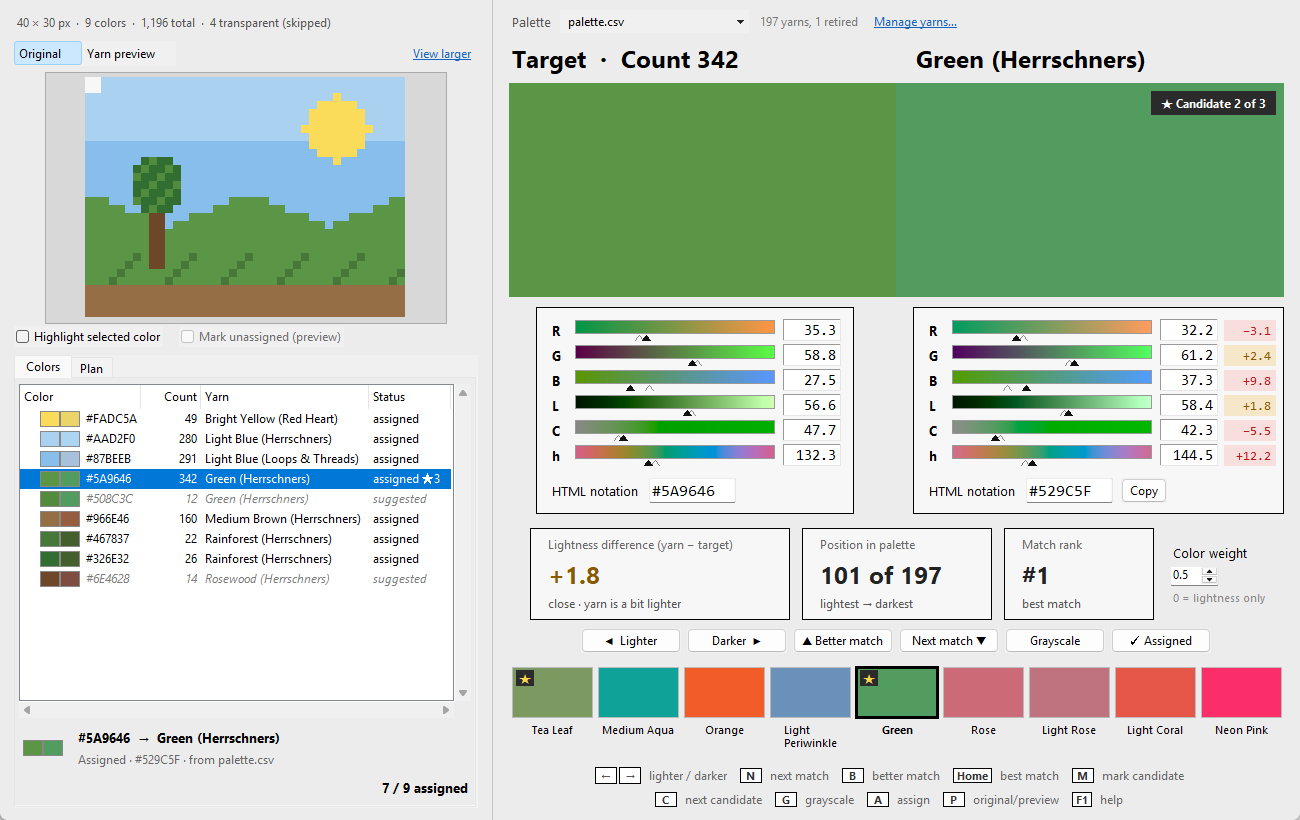
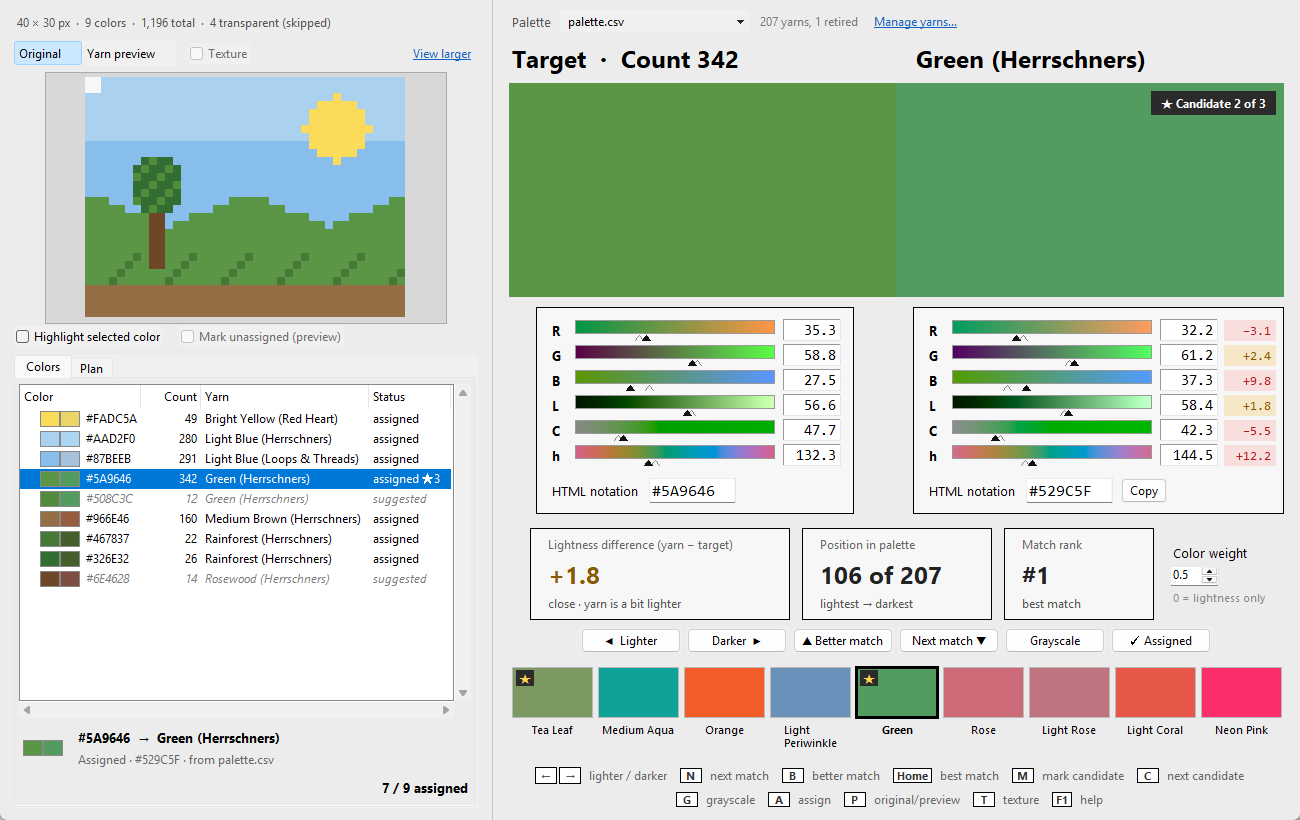
Yarn texture: T shows the preview with each yarn's photo instead of its flat color
Like my GIMP test fit: every yarn's photo is a layer behind the whole picture, seen
through that color's knots. Works in the sidebar and View larger (Texture box, or T;
from the original T goes straight to the textured preview). Yarns without a photo,
grayscale, and colors faded by Highlight or striped by Mark unassigned stay flat.
Scaled photos are cached per size; each run of same-colored knots is one copy.
README main and Plan screenshots retaken (Texture box, T hint).

Changed region(s): [[0.4308, 0.9146, 0.9538, 1.0], [0.6769, 0.7012, 0.7077, 0.7317], [0.1538, 0.061, 0.1846, 0.0915]]

diff --git a/src/latchwork/project_panel.py b/src/latchwork/project_panel.py
@@ -1,9 +1,13 @@
-"""Project sidebar: the image (original or yarn preview), its colors and assignments, and the plan."""
+"""Project sidebar: the image (original or yarn preview, flat or textured with yarn photos), its
+colors and assignments, and the plan."""
 import math
+import os
 import tkinter as tk
 import tkinter.font as tkfont
 from tkinter import ttk
 
+from . import palette as pal
+from . import photos
 from . import plan as pl
 from .palette import label as yarn_label
 from .colormath import gray_for_lightness, lightness, parse_hex, to_hex
@@ -71,6 +75,8 @@ class ProjectPanel(tk.Frame):
         self.large = None        # the "View larger" window, while open
         self._large_geometry = None
         self._quiet = False
+        self._photos = {}        # yarn photo path -> (mtime, PhotoImage)
+        self._textures = {}      # (path, mtime, w, h) -> (image, x offset, y offset)
         italic = tkfont.nametofont("TkDefaultFont").copy()
         italic.configure(slant="italic")
         self._italic = italic
@@ -106,6 +112,15 @@ class ProjectPanel(tk.Frame):
         for value, text in (("original", "Original"), ("preview", "Yarn preview")):
             ttk.Radiobutton(views, text=text, value=value, variable=self.view, style="Toolbutton",
                             command=self.on_view).pack(side="left", ipadx=8)
+        self.texture = tk.BooleanVar(value=False)
+        self.texture_cb = ttk.Checkbutton(views, text="Texture", variable=self.texture,
+                                          command=self.render_image)
+        self.texture_cb.pack(side="left", padx=(12, 0))
+        Tooltip(self.texture_cb, lambda e: (None, [([], (
+            "Yarn preview with each yarn's photo instead of its flat color (T),\n"
+            "like a photo layer behind the picture. Yarns without a photo stay\n"
+            "flat; so does everything in grayscale, and the colors that\n"
+            "Highlight fades or Mark unassigned stripes."))]))
         larger = tk.Label(views, text="View larger", font=("Segoe UI", 9, "underline"), bg=BG,
                           fg="#1565C0", cursor="hand2")
         larger.pack(side="right", padx=(0, 4))
@@ -522,8 +537,22 @@ class ProjectPanel(tk.Frame):
 
     # ---------- image ----------
     def on_view(self):
-        self.mark_cb.state(["!disabled"] if self.view.get() == "preview" else ["disabled"])
+        state = ["!disabled"] if self.view.get() == "preview" else ["disabled"]
+        self.mark_cb.state(state)
+        self.texture_cb.state(state)
         self.render_image()
+
+    def toggle_texture(self):
+        """T: yarn texture on or off. From the original it goes to the textured preview."""
+        if not self.project:
+            return
+        if self.view.get() != "preview":
+            self.view.set("preview")
+            self.texture.set(True)
+            self.on_view()
+        else:
+            self.texture.set(not self.texture.get())
+            self.render_image()
 
     def toggle_view(self):
         if self.project:
@@ -594,6 +623,8 @@ class ProjectPanel(tk.Frame):
         zoom, sub = scale
         dw = w * zoom if sub == 1 else -(-w // sub)
         dh = h * zoom if sub == 1 else -(-h // sub)
+        textured = self._textures_for(dw, dh, live, sel, unassigned) \
+            if preview and self.texture.get() and not gray else {}
         xs = [min(w - 1, dx * sub // zoom) for dx in range(dw)]
         rows = []
         for dy in range(dh):
@@ -613,7 +644,73 @@ class ProjectPanel(tk.Frame):
             rows.append("{" + " ".join(row) + "}")
         photo = tk.PhotoImage(width=dw, height=dh)
         photo.put(" ".join(rows), to=(0, 0))
+        if textured:
+            self._paint_textures(photo, textured, xs, w, h, scale, dw, dh)
         return photo
+
+    # ---------- yarn texture ----------
+    def _textures_for(self, dw, dh, live, sel, unassigned):
+        """{image color: (texture, x offset, y offset)} for the colors whose yarn has a photo."""
+        bank = {y.key: y for y in self.app.bank}
+        out = {}
+        for e in self.project.colors:
+            if (sel and e.hex != sel) or e.hex in unassigned:
+                continue
+            if live and live[0] == e.hex:
+                y = self.app.yarns[self.app.index]
+            elif e.yarn:
+                y = bank.get(pal.yarn_key(e.yarn["name"], e.yarn.get("brand", "")))
+            else:
+                y = None
+            path = pal.photo_file(self.app.palette_path, y) if y else None
+            tex = self._texture(path, dw, dh) if path else None
+            if tex:
+                out[e.hex] = tex
+        return out
+
+    def _texture(self, path, w, h):
+        try:
+            mtime = os.path.getmtime(path)
+        except OSError:
+            return None
+        key = (path, mtime, w, h)
+        tex = self._textures.get(key)
+        if tex is None:
+            cached = self._photos.get(path)
+            if not cached or cached[0] != mtime:
+                try:
+                    cached = self._photos[path] = (mtime, photos.load(path, master=self))
+                except ValueError:
+                    return None
+            tex = self._textures[key] = photos.cover_texture(cached[1], w, h)
+            while len(self._textures) > 60:          # keep the most recent sizes only
+                del self._textures[next(iter(self._textures))]
+        return tex
+
+    def _paint_textures(self, photo, textured, xs, w, h, scale, dw, dh):
+        """Copy each textured color's photo into its knots: one rectangle per run of the same
+        color along a row of art pixels."""
+        zoom, sub = scale
+        call, name = photo.tk.call, photo.name
+        y0 = 0
+        while y0 < dh:
+            iy = min(h - 1, y0 * sub // zoom)
+            y1 = y0 + 1
+            while y1 < dh and min(h - 1, y1 * sub // zoom) == iy:
+                y1 += 1
+            base, x0 = iy * w, 0
+            while x0 < dw:
+                orig = self.orig_hex[base + xs[x0]]
+                x1 = x0 + 1
+                while x1 < dw and self.orig_hex[base + xs[x1]] == orig:
+                    x1 += 1
+                tex = textured.get(orig)
+                if tex:
+                    img, ox, oy = tex
+                    call(name, "copy", img.name, "-from", x0 + ox, y0 + oy, x1 + ox, y1 + oy,
+                         "-to", x0, y0)
+                x0 = x1
+            y0 = y1
 
 
 class LargeView(tk.Toplevel):

diff --git a/src/latchwork/help.py b/src/latchwork/help.py
@@ -98,6 +98,7 @@ Pixel art is more vivid than any yarn; high weights chase colorfulness and light
 - A: assign the yarn on screen to the selected color; press again to undo.
 - G: grayscale (judge lightness alone).
 - P: sidebar image: original / yarn preview (assigned yarns, and suggested yarns for unassigned colors; Mark unassigned stripes those). The selected color shows the yarn currently on screen, live as you step, so you can judge it in the whole picture; nothing changes until you Assign. Highlight selected color (off by default) fades everything else, to show where that color is: toward white, or toward dark gray when the selected color is light (so white or pale colors still stand out). View larger (above the image) opens it in its own window, as big as fits, for small, long or wide art; it follows the sidebar, you can click colors in it, and P works there too.
+- T: yarn texture (the Texture box above the image): the yarn preview shows each yarn's photo instead of its flat color, like a photo layer behind the picture, so you can judge the real yarns together before deciding. From the original, T goes straight to the textured preview. Yarns without a photo stay flat, and so does everything in grayscale and the colors that Highlight fades or Mark unassigned stripes. Works in View larger too.
 - Enter or Esc: leave the hex field.
 - Typing a hex into the yarn's HTML notation box jumps to the yarn with that color; if no yarn matches, the box resets when you leave it.
 - Ctrl+N new project, Ctrl+O open project (File > Open recent lists the last 8), Ctrl+E export pattern, Ctrl+P manage yarns.

diff --git a/src/latchwork/app.py b/src/latchwork/app.py
@@ -365,7 +365,7 @@ class App:
         for keys, text in (("←→", "lighter / darker"), ("N", "next match"), ("B", "better match"),
                            ("Home", "best match"), ("M", "mark candidate"),
                            ("C", "next candidate"), ("G", "grayscale"), ("A", "assign"),
-                           ("P", "original/preview"), ("F1", "help")):
+                           ("P", "original/preview"), ("T", "texture"), ("F1", "help")):
             item = tk.Frame(hints, bg=BG)
             self.hint_items.append(item)
             for k in ([keys] if len(keys) > 2 or keys == "F1" else list(keys)):
@@ -407,6 +407,9 @@ class App:
             self.root.bind_all(k, lambda e: self._key(e, self.assign))
         for k in ("p", "P"):
             self.root.bind_all(k, lambda e: self._key(e, self.sidebar.toggle_view, large=True))
+        for k in ("t", "T"):
+            self.root.bind_all(k, lambda e: self._key(e, self.sidebar.toggle_texture,
+                                                      large=True))
         for k in ("m", "M"):
             self.root.bind_all(k, lambda e: self._key(e, self.mark_candidate))
         self.root.bind_all("c", lambda e: self._key(e, lambda: self.cycle_candidate(1)))

diff --git a/src/latchwork/photos.py b/src/latchwork/photos.py
@@ -51,6 +51,20 @@ def thumbnail(img, max_side):
     return img.subsample(f) if f > 1 else img
 
 
+def cover_texture(img, w, h):
+    """(image, x offset, y offset): the photo scaled to cover a w x h picture (whole-number
+    zoom, or the largest whole-number shrink that still covers), centered. Like a photo
+    layer behind the whole picture: every color's knots show their own yarn's photo."""
+    pw, ph = img.width(), img.height()
+    if pw >= w and ph >= h:
+        f = min(pw // w, ph // h)
+        if f > 1:
+            img = img.subsample(f)
+    else:
+        img = img.zoom(max(-(-w // pw), -(-h // ph)))
+    return img, (img.width() - w) // 2, (img.height() - h) // 2
+
+
 def copy_in(src, palette_path, yarn, img=None):
     """Copy a photo into the palette's swatch folder as 'Brand/Name.png' (shrunk when it's
     larger than MAX_SIDE). Returns the relative name to store in yarn.photo."""

diff --git a/docs/DESIGN.md b/docs/DESIGN.md
@@ -247,6 +247,14 @@ A `.latchwork` file is readable JSON:
   their yarn, unassigned ones their suggested yarn; "Mark unassigned" stripes those in the sidebar.
   In the sidebar, the selected color shows the yarn currently in the comparison view, updating
   live as you step (preview only; nothing is stored until Assign).
+- **Texture** (T, or the box above the image; preview only) replaces flat colors with yarn
+  photos, the way I used to test-fit in GIMP: each yarn's photo is a layer behind the whole
+  picture, seen through that color's knots. The photo is scaled to cover the image (whole-number
+  zoom, or the largest whole-number shrink that still covers) and centered, then copied in one
+  rectangle per run of same-colored knots, so it costs little more than the flat preview.
+  Scaled photos are cached per size. The yarn is the assigned or suggested one (the live yarn
+  for the selected color); no photo, grayscale, a faded (Highlight) or striped (Mark unassigned)
+  color stays flat. From the original, T switches to the textured preview.
 - Highlight selected color fades the other colors 78% toward white, or toward dark gray (#3A3A3A)
   when the selected color as shown has L\* of 65 or more, since pale colors vanish against a
   white fade.
@@ -255,7 +263,7 @@ A `.latchwork` file is readable JSON:
   in the 400 x 250 box, so **View larger** opens the same image in its own resizable,
   non-modal window at the largest whole-number zoom that fits. It mirrors the sidebar (view,
   highlight, stripes, selected color, live yarn), redraws once after a burst of changes, and a
-  click there selects a color too; P switches original/preview there too (other keys stay
+  click there selects a color too; P and T work there too (other keys stay
   with the main window); Esc closes it, and it reopens at its last size this session.
 
 ## Pattern export (`pattern.py`, `pattern_template.html`)

diff --git a/README.md b/README.md
@@ -60,6 +60,8 @@ first and tells you what's missing.
    the palette by lightness, **G** to compare in grayscale. Deciding between a few? **M** marks
    the yarn on screen as a candidate (or right-click its tile) and **C** (or a middle-click)
    flips between your candidates. Press **A** to assign the yarn on screen.
+   For a final check, **T** (or *Texture*) shows the preview with each yarn's photo instead of
+   its flat color, for yarns that have a photo in the palette.
    For small, long or wide art, **View larger** (above the sidebar image) opens the picture in
    its own window. With *Highlight selected color* on, everything but the selected color fades,
    toward dark gray around a light color like this sun.
